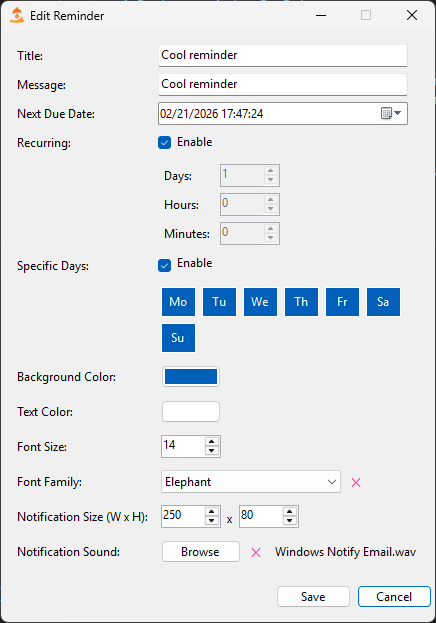
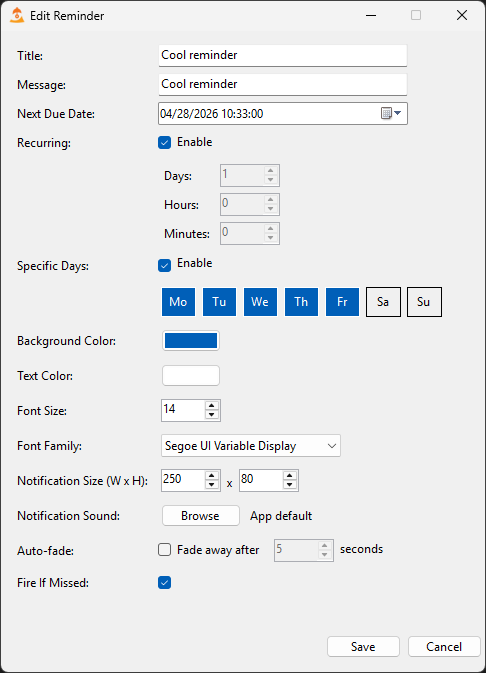
Updated images and tags for Simple Reminders

diff --git a/src/projects.ts b/src/projects.ts
@@ -49,7 +49,7 @@ export const projects: Project[] = [
     homeTitle: true,
     subtitle_fr: "Application de rappels pour Windows",
     subtitle_en: "Reminder application for Windows",
-    techStack: ["C#", ".NET", "90% AI made"],
+    techStack: ["C#", ".NET", "Vibe Coding"],
     description_fr:
       "Application windows permettant de créer des rappels, produisant des notifications quand ils se déclenchent",
     description_en:
